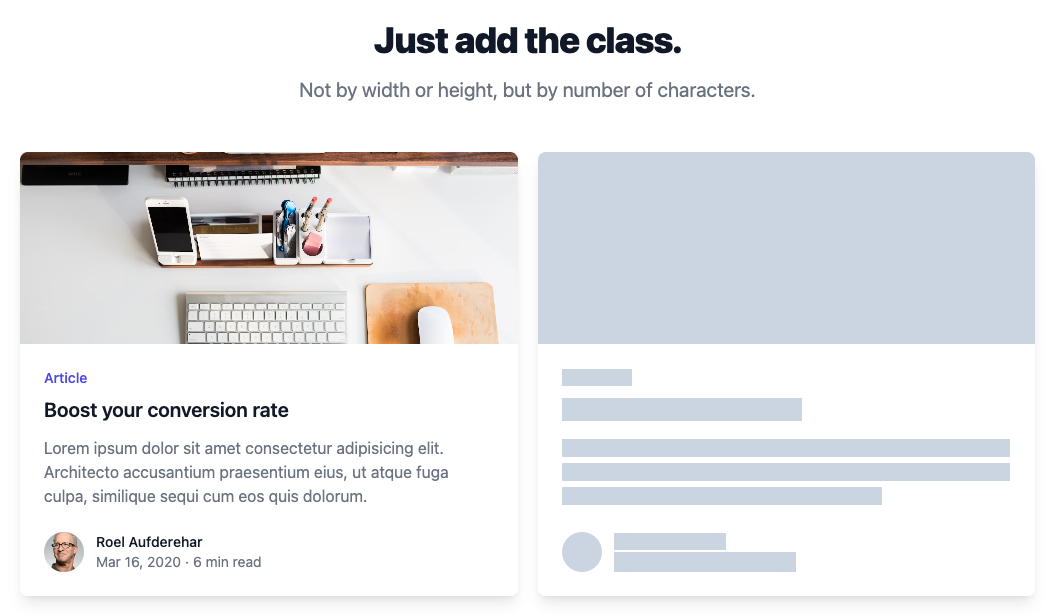
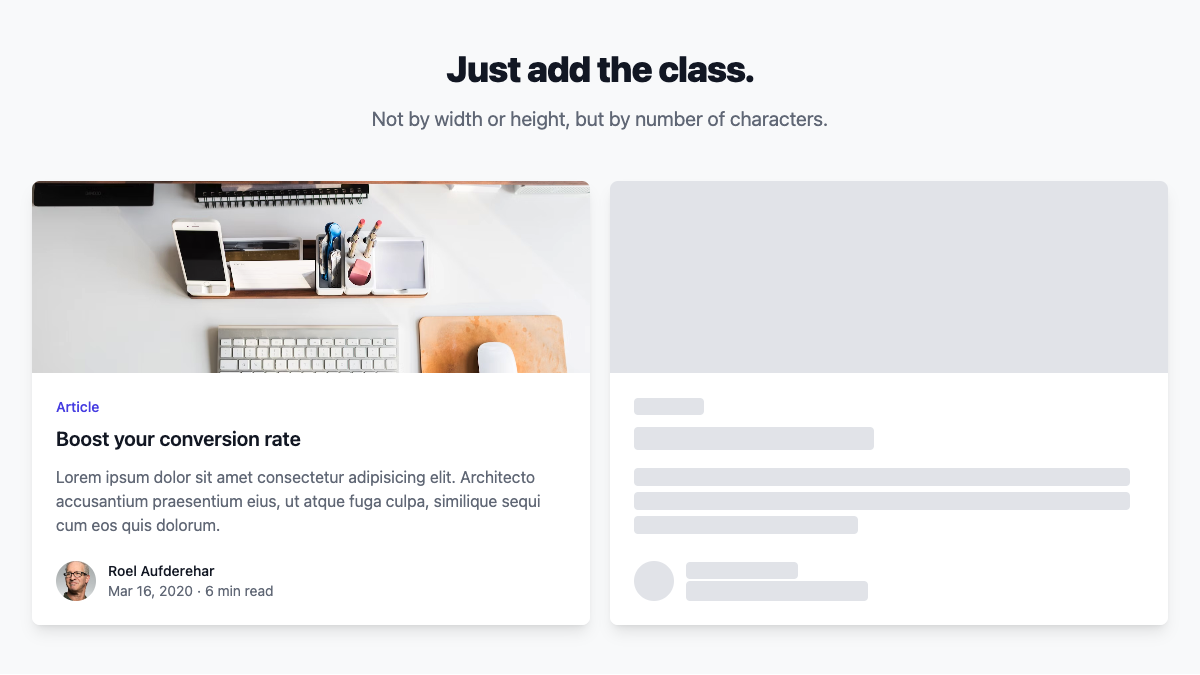
feat: supports rounded corners for text

Changed region(s): [[0.0, 0.2468, 1.0, 0.9562], [0.273, 0.0308, 0.728, 0.1851]]

diff --git a/src/index.js b/src/index.js
@@ -19,18 +19,26 @@ module.exports = plugin(
         const content = rows.join(`\\A`);
         return {
           "&:empty:before": {
-            content: `"${content}"`,
-            "background-color": theme("skeletonScreen.color"),
-            "white-space": "break-spaces",
-            "word-break": "break-all",
-          },
-          "&.truncate:empty:before": {
-            "white-space": "normal",
+            "--tw-content": `"${content}"`
           },
         };
       },
     });
     addUtilities({
+      '[class*="ss-text-"]': {
+        "&:empty:before": {
+          content: "var(--tw-content)",
+          "background-color": theme("skeletonScreen.color"),
+          "white-space": "break-spaces",
+          "word-break": "break-all",
+          "border-radius": theme("skeletonScreen.borderRadius"),
+          "box-decoration-break": "clone",
+          "-webkit-box-decoration-break": "clone",
+        },
+        "&.truncate:empty:before": {
+          "white-space": "normal",
+        },
+      },
       ".ss-object:empty": {
         "background-color": theme("skeletonScreen.color"),
       },
@@ -40,7 +48,8 @@ module.exports = plugin(
     theme: {
       extend: {
         skeletonScreen: {
-          color: "#cbd5e1",
+          color: "#e5e7eb",
+          borderRadius: "inherit",
         },
       },
     },
